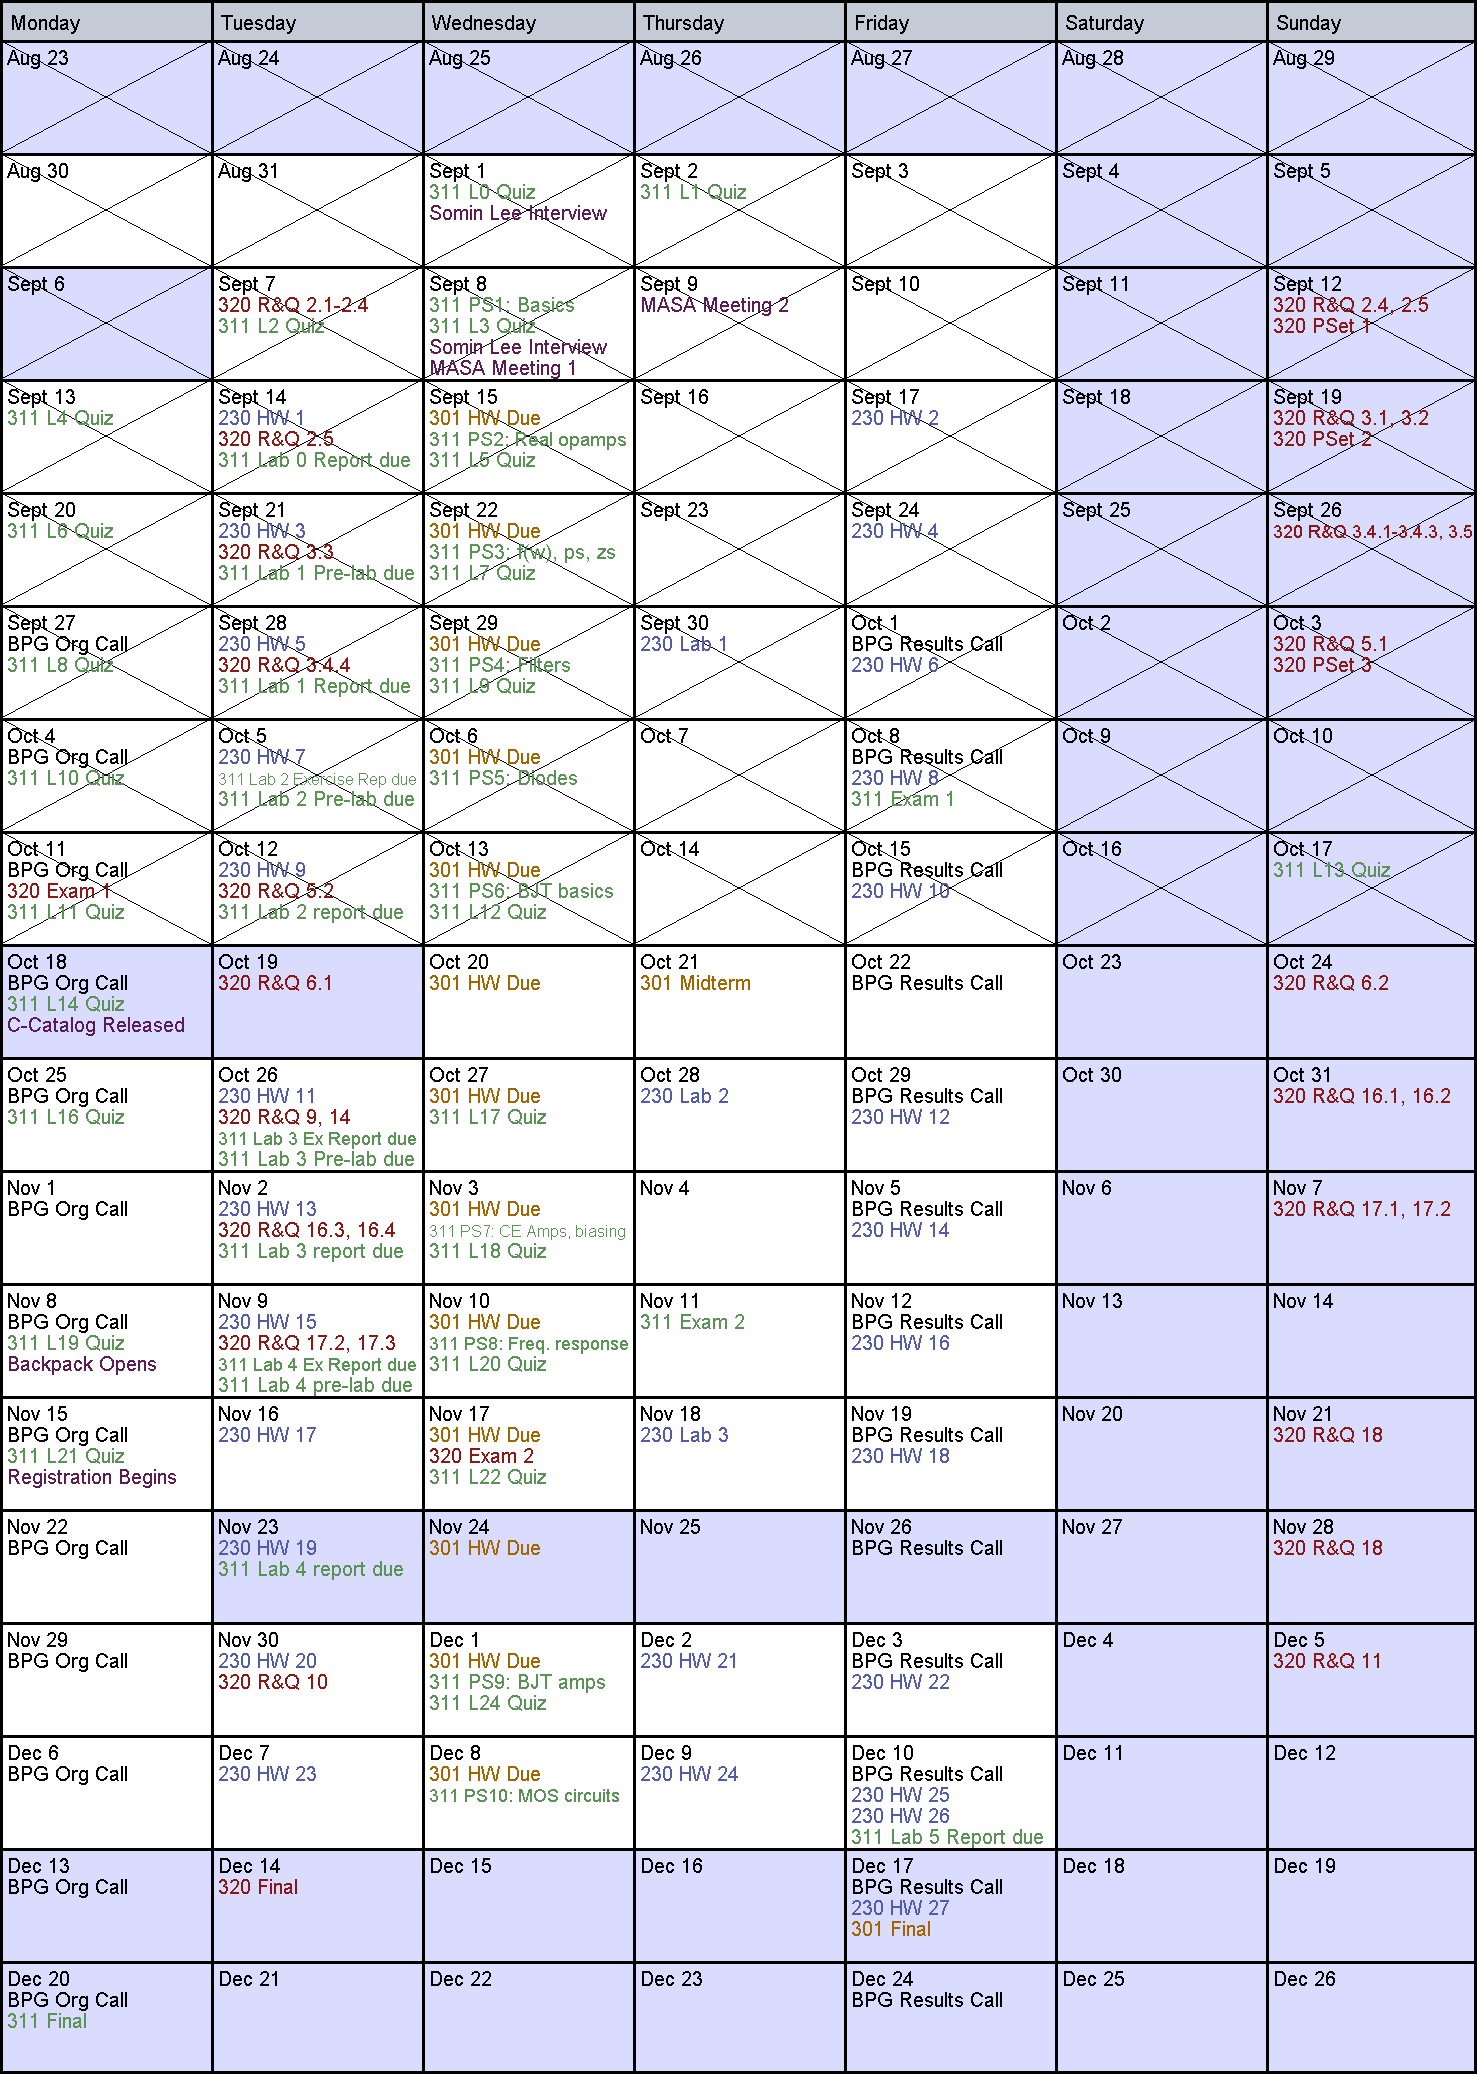
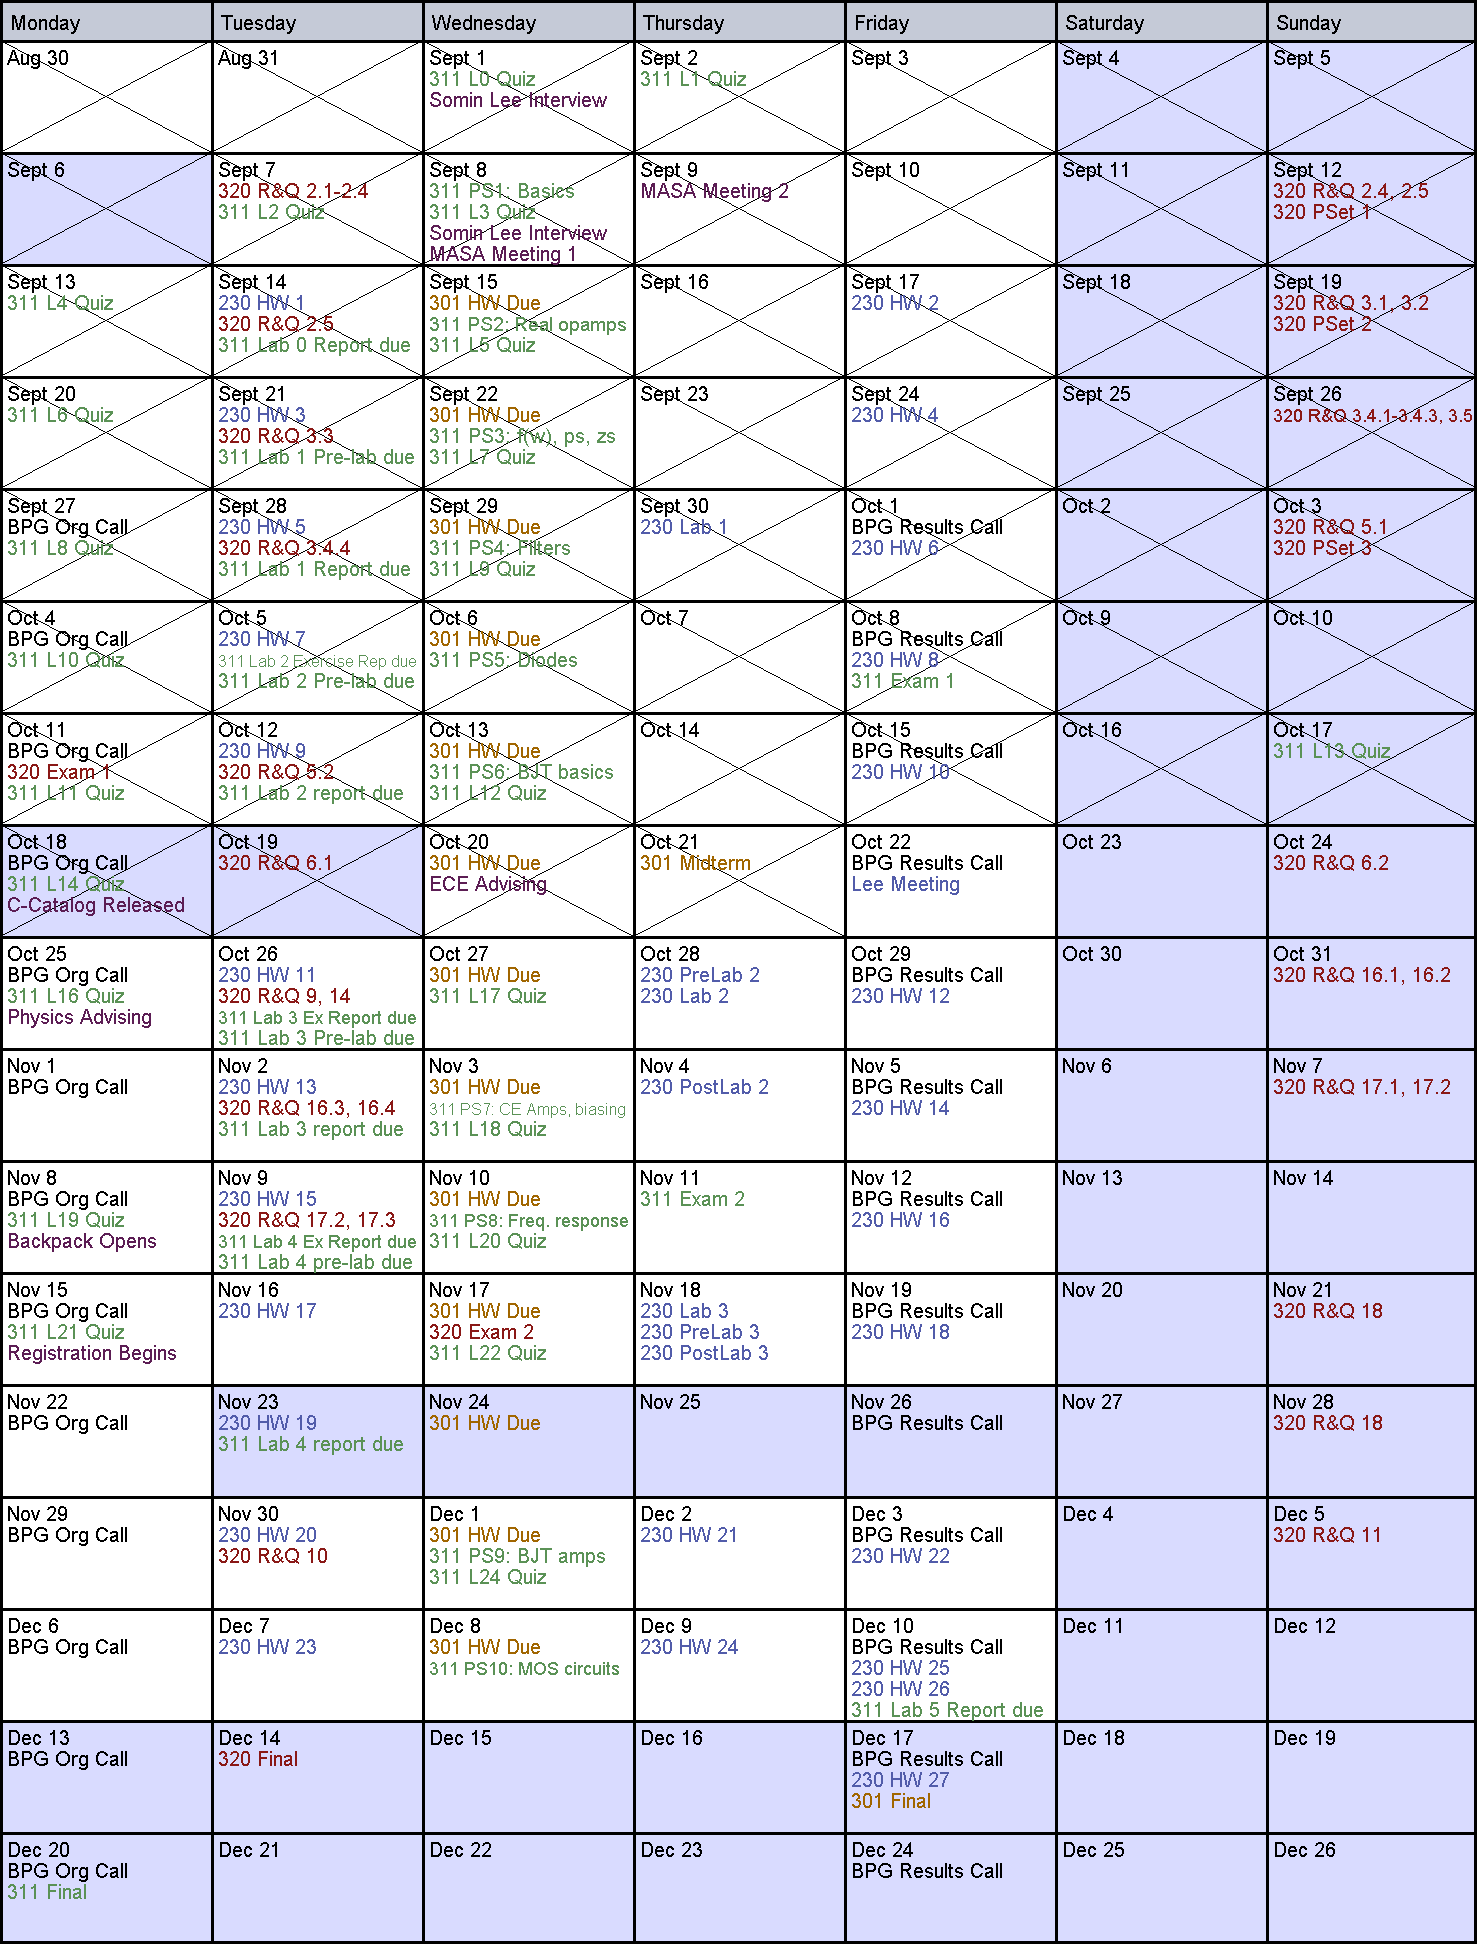
upd

diff --git a/src/Calendar.java b/src/Calendar.java
@@ -16,7 +16,7 @@ import java.util.Date;
 
 public class Calendar extends Applet implements Runnable, KeyListener {
 
-    float pw=8f, ph=11f;
+    float pw=8.5f, ph=11f;
     private int WIDTH=1480, HEIGHT=1480;
     int defaultFont=20;
     private Thread thread;
@@ -30,7 +30,7 @@ public class Calendar extends Applet implements Runnable, KeyListener {
     int[] daysPerMonth=new int[]{ 31  , 28  , 31  , 30  , 31  , 30   , 31   , 31  , 30   , 31  , 30  , 31  };
     String[] months=new String[]{"Jan","Feb","Mar","Apr","May","June","July","Aug","Sept","Oct","Nov","Dec"};
     int adj=4;
-    int start=getDayofYear(23,8);
+    int start=getDayofYear(30,8);
     int end=getDayofYear(26,12);
     int rows=(int)(Math.ceil((end-start)/7.0));
     int currentDay=start;
@@ -86,8 +86,13 @@ public class Calendar extends Applet implements Runnable, KeyListener {
     public void addEvents(){
         addWeeklyEvents();
         addEvent("230 Lab 1", getDayofYear(28,9)+2, 1);
-        addEvent("230 Lab 2", getDayofYear(26,10)+2, 1);
+        addEvent("230 PreLab 2", getDayofYear(28,10), 1);
+        addEvent("230 Lab 2", getDayofYear(28,10), 1);
+        addEvent("230 PostLab 2", getDayofYear(28,10)+7, 1);
         addEvent("230 Lab 3", getDayofYear(16,11)+2, 1);
+        addEvent("230 PreLab 3", getDayofYear(16,11)+2, 1);
+        addEvent("230 PostLab 3", getDayofYear(16,11)+2, 1);
+        addEvent("Lee Meeting", getDayofYear(22,10), 1);
         addEvent("230 HW 1", getDayofYear(14,9), 1);
         addEvent("230 HW 2", getDayofYear(17,9), 1);
         addEvent("230 HW 3", getDayofYear(21,9), 1);
@@ -162,6 +167,8 @@ public class Calendar extends Applet implements Runnable, KeyListener {
         addEvent("Registration Begins", getDayofYear(15,11), 4);
         addEvent("Somin Lee Interview", getDayofYear(1,9), 4);
         addEvent("Somin Lee Interview", getDayofYear(8,9), 4);
+        addEvent("Physics Advising", getDayofYear(25,10), 4);
+        addEvent("ECE Advising", getDayofYear(20,10), 4);
         addEvent("MASA Meeting 1", getDayofYear(8,9), 4);
         addEvent("MASA Meeting 2", getDayofYear(9,9), 4);
 
